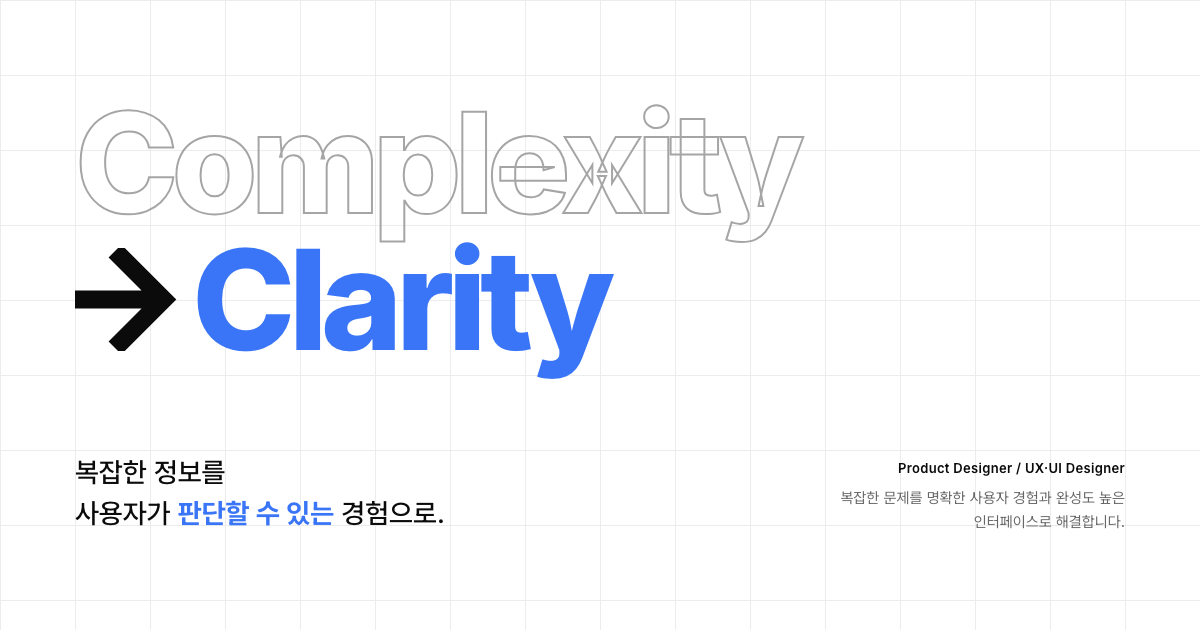
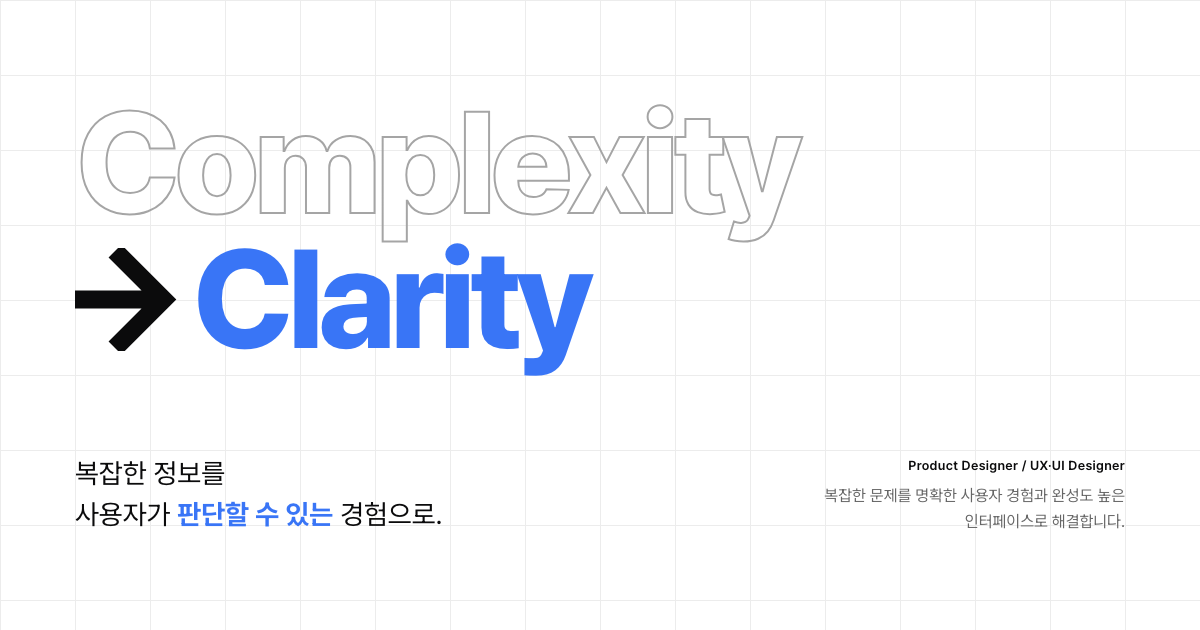
fix: 외곽선 글자 겹침 제거, 디자인 훅 설정 추가
- 외곽선(Complexity/Clarity, outline 숫자) 전용으로 겹치는 윤곽을 제거한 Inter ExtraBold를 사용
- OG 이미지 재생성
- .impeccable/config.json: 프로토타입 복사본과 지정 서체(Inter)에 대한 디자인 훅 예외 기록

diff --git a/src/index.css b/src/index.css
@@ -30,7 +30,9 @@ main p { max-width: 70ch; }
 }
 @media (max-width: 767px) { .grid-bg { background-size: 60px 60px; } }
 
-.outline-text { color: transparent; -webkit-text-stroke: 2px var(--color-line); }
+/* 외곽선 글자는 겹치는 윤곽이 없는 정적 Inter 800으로(가변 폰트는 획이 겹쳐 선이 깨져 보임) */
+@font-face { font-family: 'Inter Outline'; font-weight: 800; font-style: normal; font-display: swap; src: url('/fonts/inter-800.woff2') format('woff2'); }
+.outline-text { font-family: 'Inter Outline', Inter, sans-serif; font-weight: 800; color: transparent; -webkit-text-stroke: 2px var(--color-line); }
 @media (max-width: 767px) { .outline-text { -webkit-text-stroke-width: 1.2px; } }
 .outline-text.filled { color: var(--color-blue); -webkit-text-stroke-color: var(--color-blue); }
 
